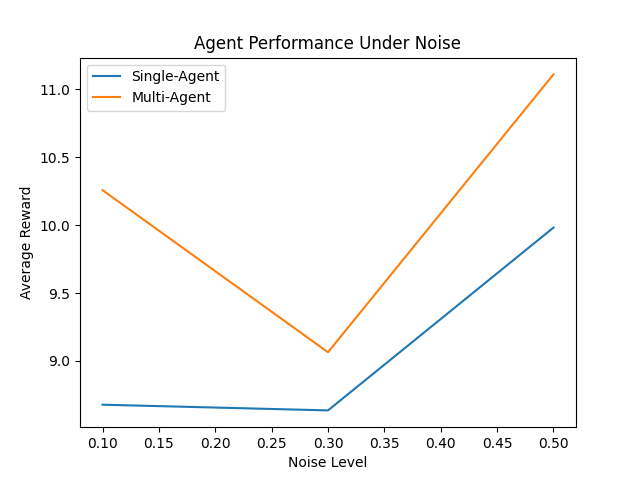
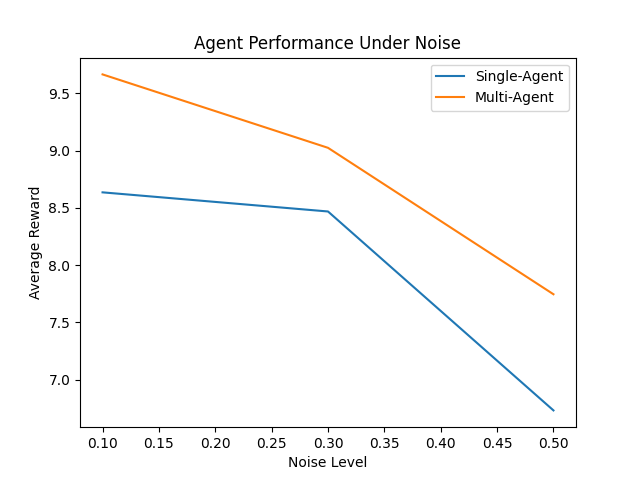
Fixed bugs

diff --git a/experiments/run_experiments.py b/experiments/run_experiments.py
@@ -1,6 +1,6 @@
-from Senior_Design_AI_Agent_Networks.environment.wireless_env import WirelessEnvironment
-from Senior_Design_AI_Agent_Networks.agents.single_agent import SingleAgent
-from Senior_Design_AI_Agent_Networks.agents.multi_agent import MultiAgent
+from environment.wireless_env import WirelessEnvironment
+from agents.single_agent import SingleAgent
+from agents.multi_agent import MultiAgent
 
 import numpy as np
 

diff --git a/main.py b/main.py
@@ -1,5 +1,5 @@
-from Senior_Design_AI_Agent_Networks.experiments.run_experiments import run_experiment
-from Senior_Design_AI_Agent_Networks.visualization.graphs import plot_results
+from experiments.run_experiments import run_experiment
+from visualization.graphs import plot_results
 
 noise_levels = [0.1, 0.3, 0.5]
 